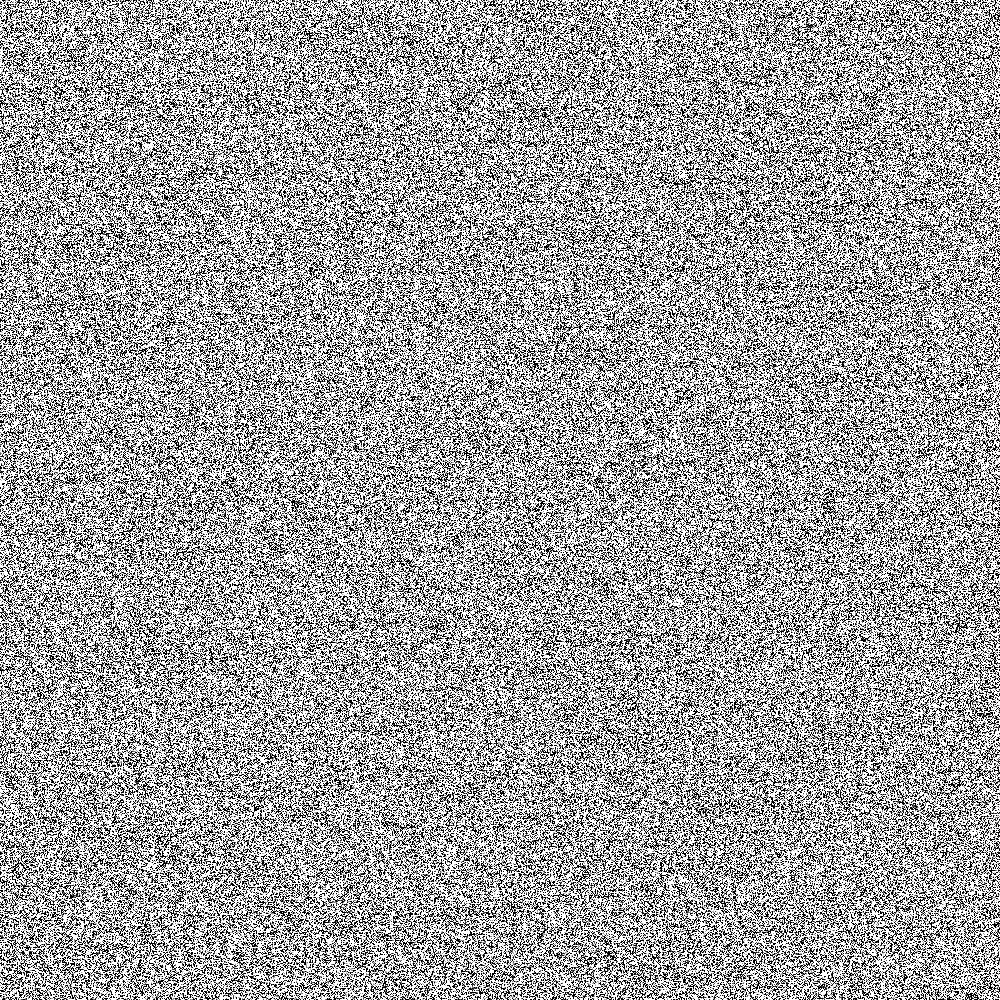
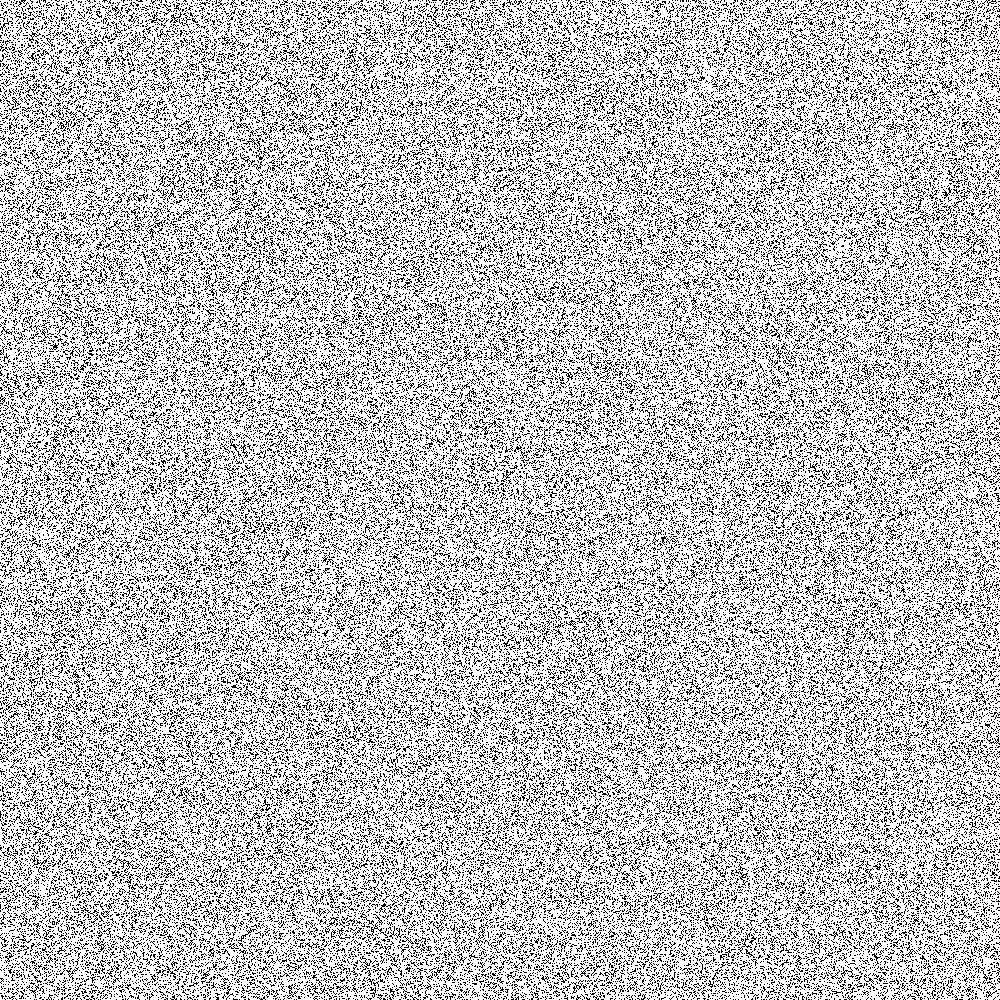
commit

diff --git a/src/global.css b/src/global.css
@@ -71,3 +71,11 @@ html {
 .animate-blob {
   animation: blob 8s infinite ease-in-out;
 }
+
+
+
+.bg-noise {
+  background-image: url('./portfolio/noise.png');
+  background-repeat: repeat;
+  background-size: auto; /* or set a size if your tile is too big/small */
+}
